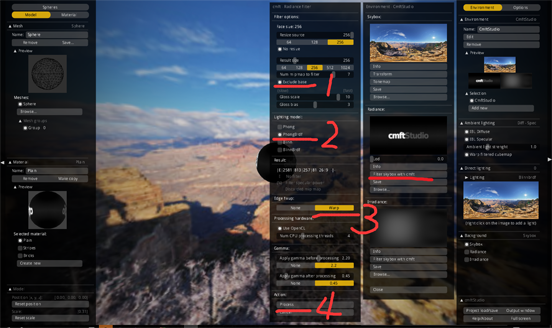
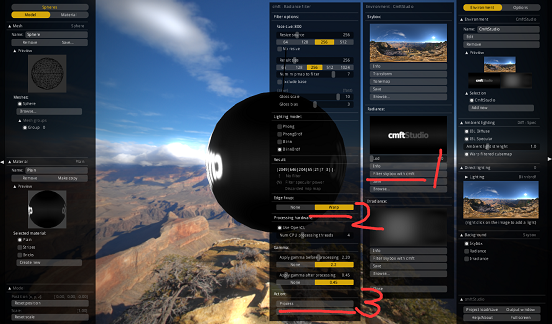
更改天空盒的制作

diff --git a/README.md b/README.md
@@ -155,7 +155,7 @@ Ray-MMD
 * 如下图点击右侧的图片然后浏览需要处理的天空盒图片  
 * 如果是HDR文件，点ToneMapping，然后Apply即可  
 [![link text](Screenshot/4.1_small.png)](Screenshot/4.1.png)
-* 点击Radiance中的Filter skybox with cmft，选中Exclude base和PhongBRDF以及Wrap模式并Process  
+* 点击Radiance中的Filter skybox with cmft，选中Wrap模式并Process  
 [![link text](Screenshot/4.2_small.png)](Screenshot/4.2.png)
 * 点击Irradiance中的Fiter skybox with cmft，直接点Process即可  
 [![link text](Screenshot/4.3_small.png)](Screenshot/4.3.png)
